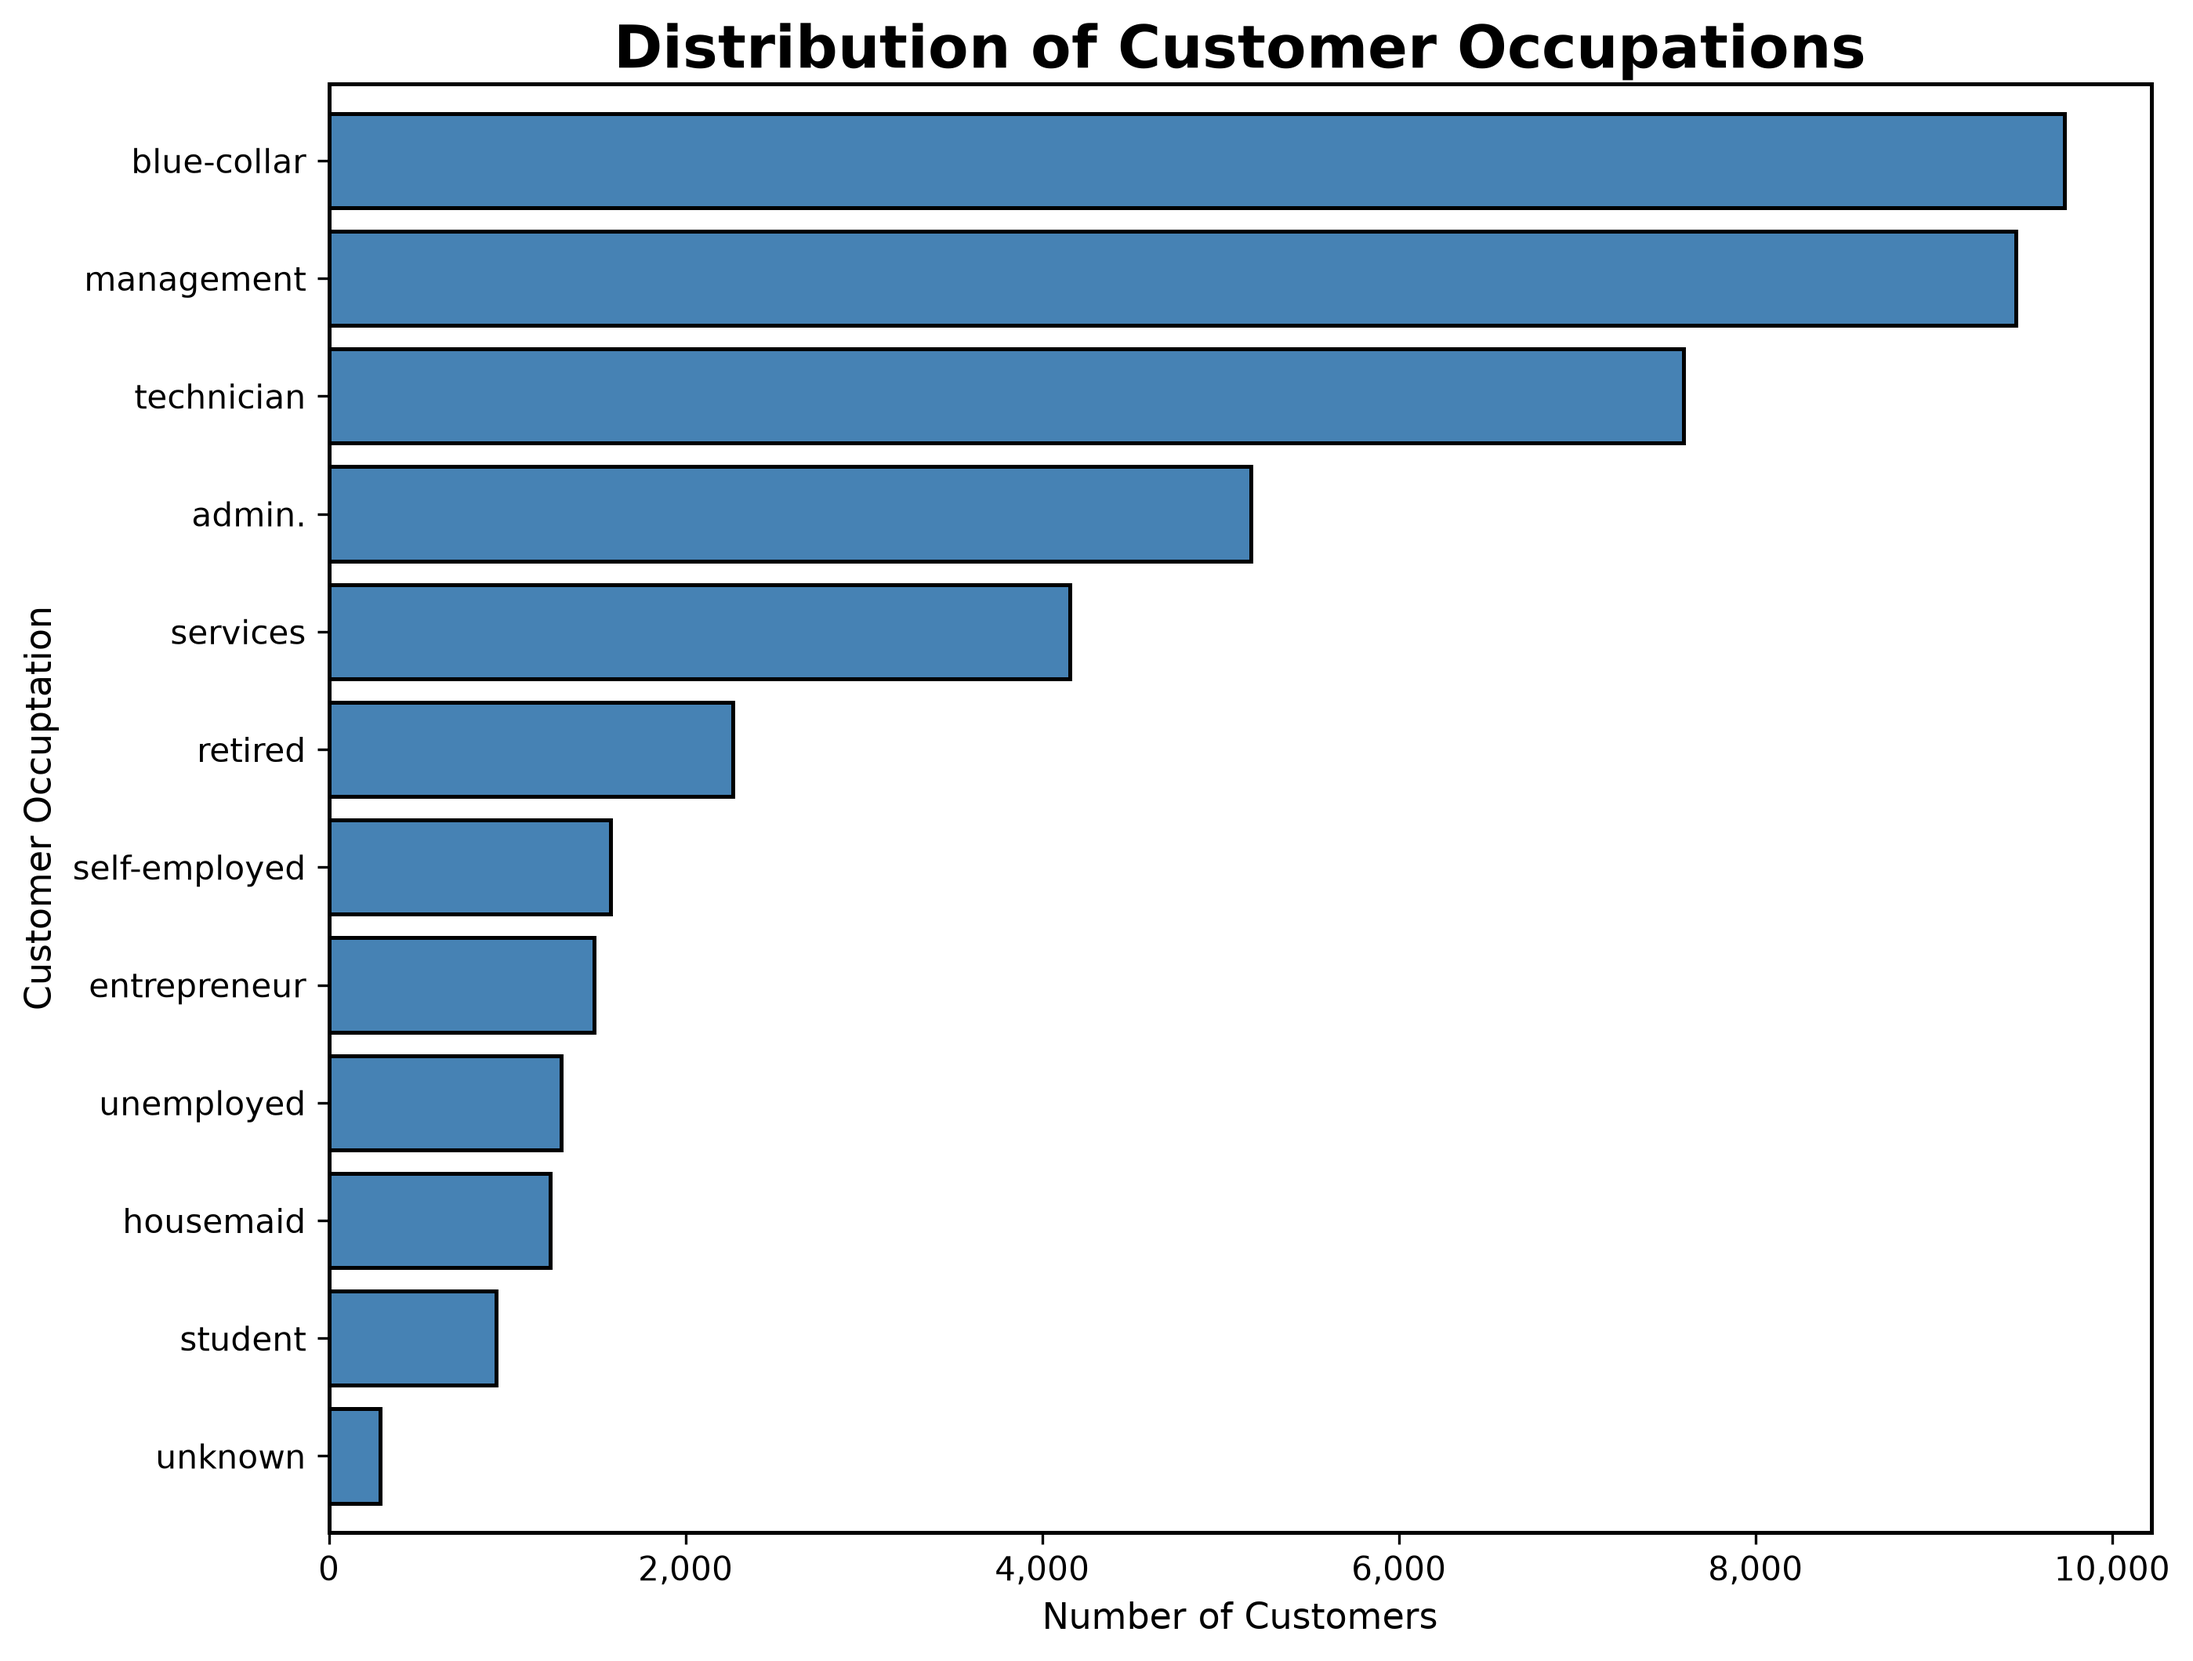
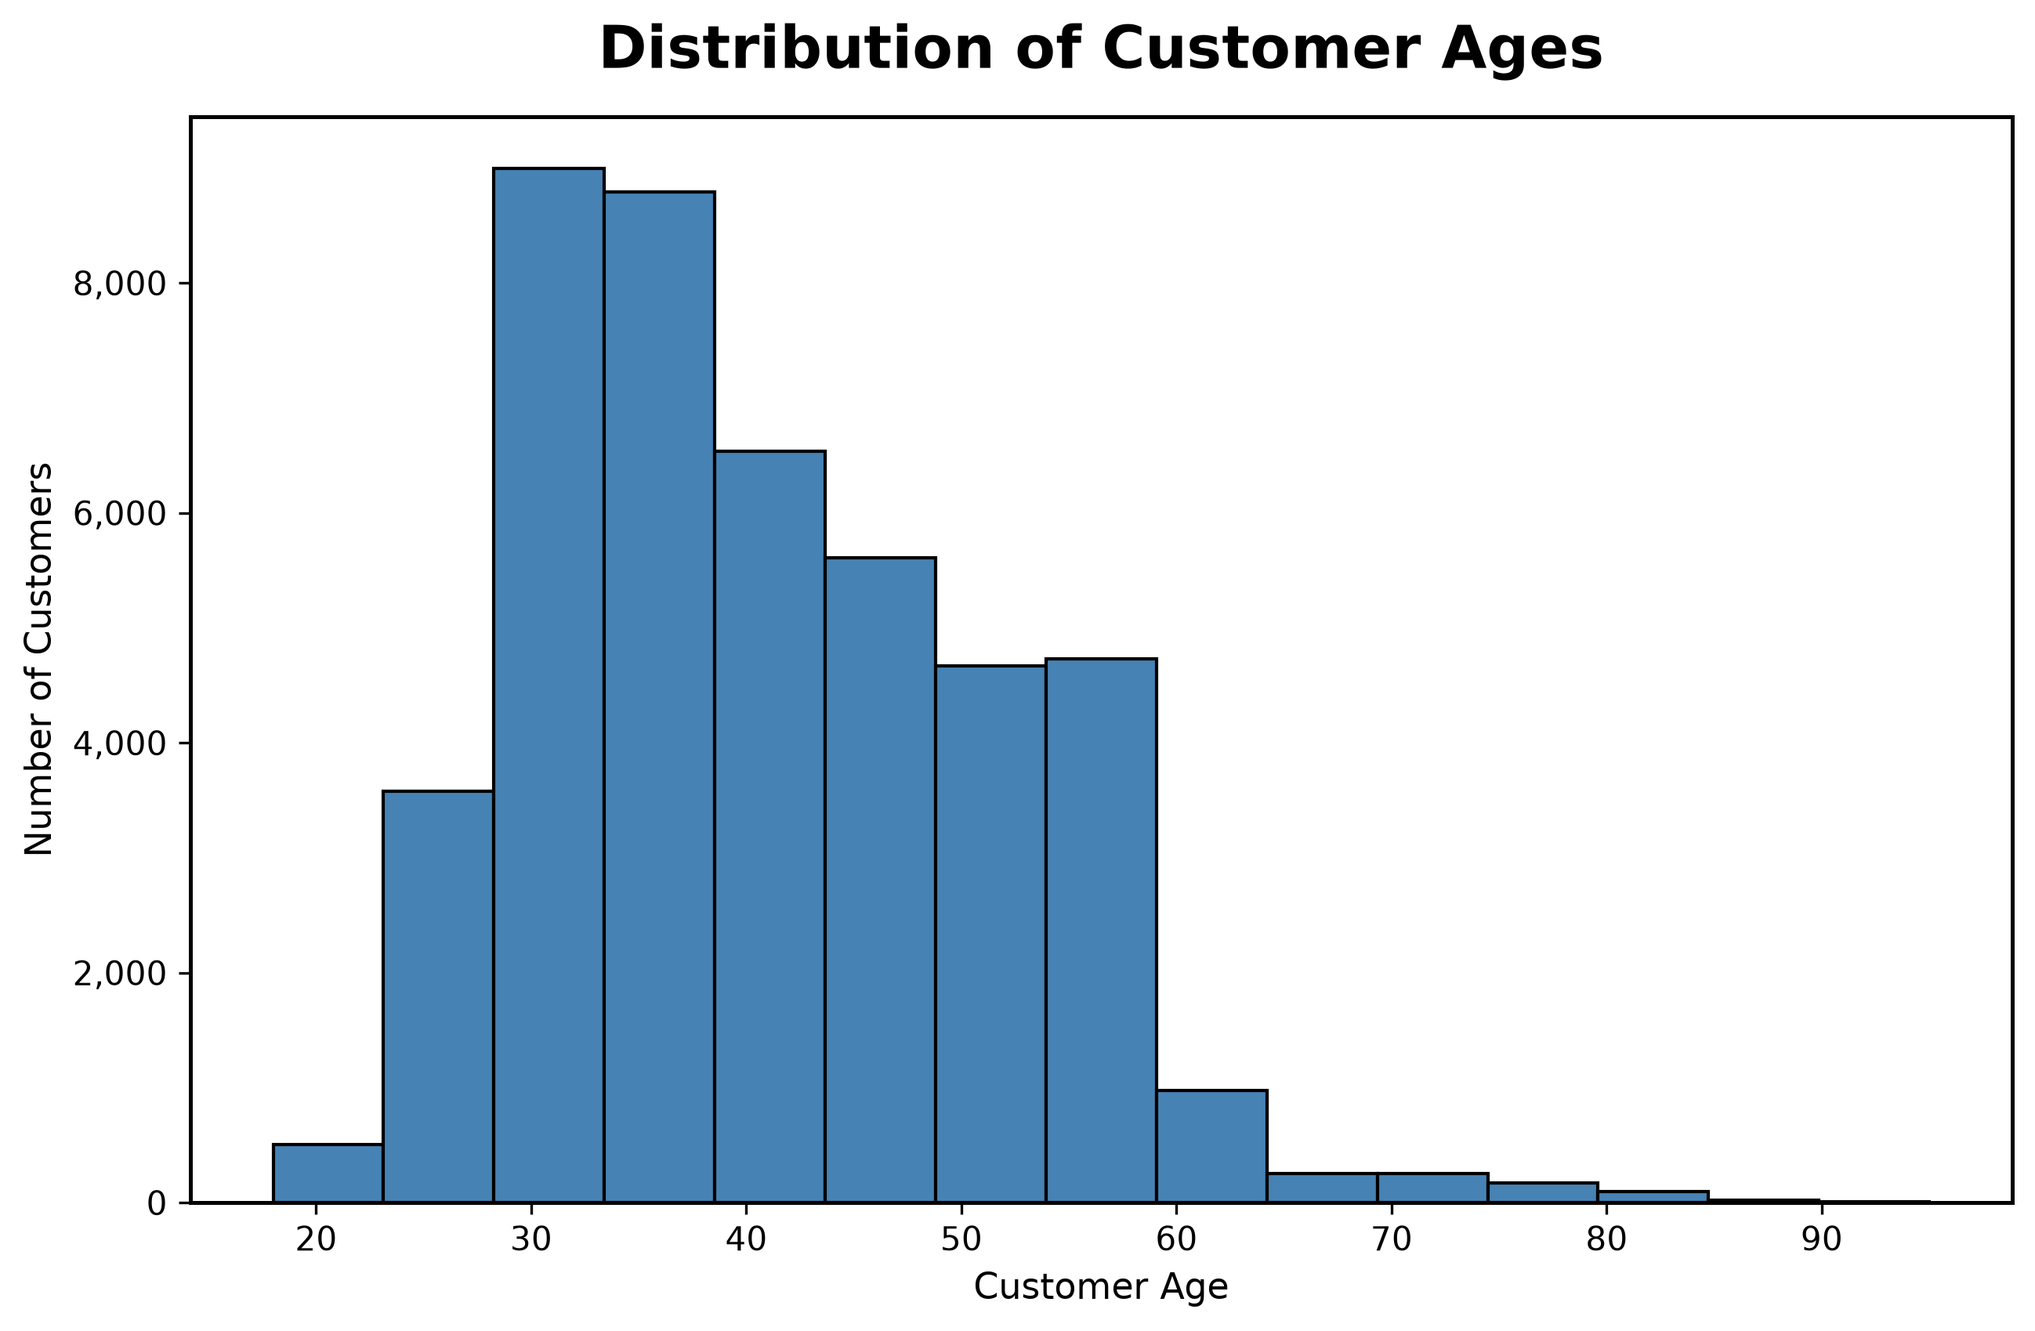
update plots

diff --git a/README.md b/README.md
@@ -8,6 +8,18 @@ The objective of this project is to analyze customer demographics, financial cha
 
 ---
 
+## Data Source
+
+This project uses the **Bank Marketing Dataset** from the UCI Machine Learning Repository. The dataset contains information from direct marketing campaigns conducted by a Portuguese banking institution, primarily through telephone contact.
+
+The analysis uses the `bank-full.csv` dataset, containing 45,211 customer records and information on customer demographics, financial characteristics, campaign interactions, previous campaign outcomes, and whether the customer subscribed to a term deposit.
+
+**Source:** UCI Machine Learning Repository — Bank Marketing Dataset  
+**Creators:** Sérgio Moro, Paulo Rita, and Paulo Cortez  
+**DOI:** 10.24432/C5K306
+
+---
+
 ## Business Problem
 
 How can the bank improve the efficiency of its direct marketing campaign by identifying customers who are most likely to subscribe to a term deposit?
